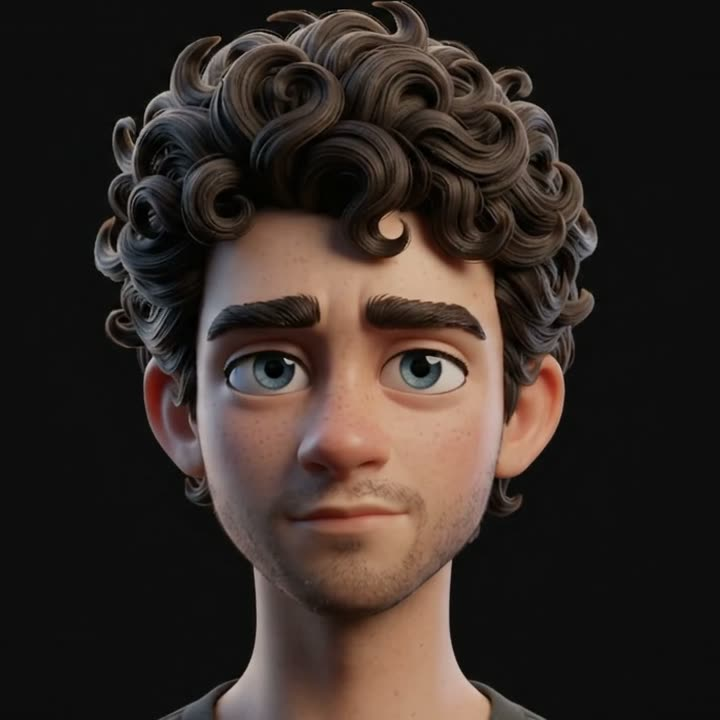
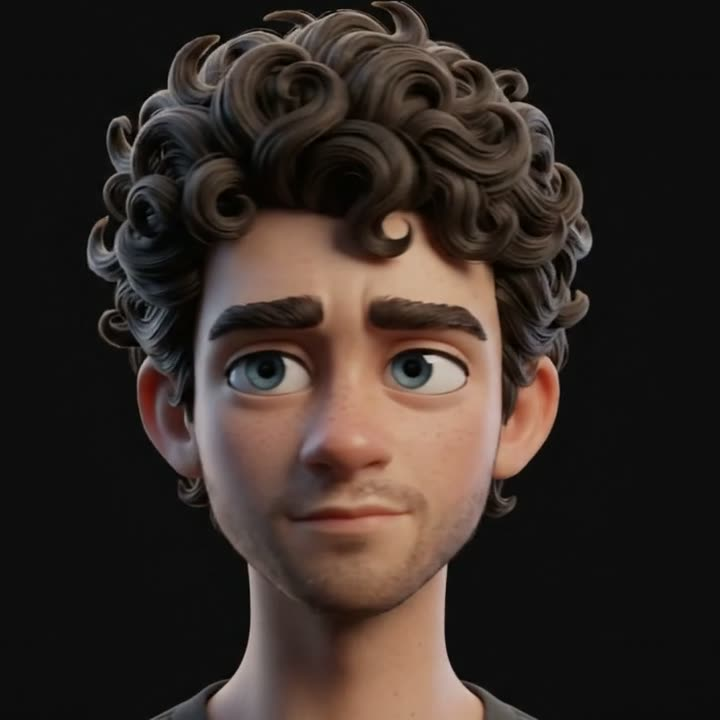
style: remove magnetic motion from Let's build Contact button and update companion gaze frames
- Remove data-sc-magnet effect from Contact me button after Let's build
- Confirm Contact me button is removed after About me
- Update companion gaze frames (000-025) and manifest.json
- Update page.js transition timing and handoff mode gaze tracking

diff --git a/public/page.js b/public/page.js
@@ -131,12 +131,17 @@
       else { setFixed(corner.x, corner.y, corner.s, 1); mode = 'corner'; }
     } else if (y < workAct.top + workAct.height - vh) {
       if (pW < 0.08) { travel(corner, rectOf(figs.deal), pW / 0.08, 1, 0); mode = 'travel'; }
-      else if (pW < 0.92) { setStage('deal'); mode = 'deal'; }
-      else { travel(rectOf(figs.deal), corner, (pW - 0.92) / 0.08, 0, 1); mode = 'travel'; }
+      else { setStage('deal'); mode = 'deal'; }
     } else {
-      if (pC < 0.2) { setFixed(corner.x, corner.y, corner.s, 1); mode = 'corner'; }
-      else if (pC < 0.48) { travel(corner, rectOf(figs.close), (pC - 0.2) / 0.28, 1, 0); mode = 'travel'; }
-      else { setStage('close'); mode = 'close'; }
+      // Straight from where he stands under the deck to his place beside the
+      // ask. No detour through the corner. The deal figure scrolls up with its
+      // stage once the pin releases, so its resting spot is its current rect
+      // shifted back by however far the page has moved since the release.
+      var pinEnd = workAct.top + workAct.height - vh;
+      if (pC < 0.48) {
+        var from = rectOf(figs.deal); from.y += y - pinEnd;
+        travel(from, rectOf(figs.close), pC / 0.48, 0, 0); mode = 'handoff';
+      } else { setStage('close'); mode = 'close'; }
     }
     fixedEl.setAttribute('data-sc-verify-state', mode + '|' + fixedState);
     if (mode === 'hero') heroStage.setAttribute('data-sc-verify-state', 'wake:' + Math.round(modeT * 40));
@@ -205,7 +210,7 @@
   function pickFrame() {
     var smile = frames.wake ? frames.wake[frames.wake.length - 1] : null;
     if (mode === 'hero' && frames.wake) return frames.wake[Math.round(modeT * (frames.wake.length - 1))];
-    if ((mode === 'deal' || mode === 'close') && frames.gaze && fine.matches && hasPointer) {
+    if ((mode === 'deal' || mode === 'handoff' || mode === 'close') && frames.gaze && fine.matches && hasPointer) {
       // The generated sweep runs from the viewer's right to the viewer's left,
       // so the pointer maps onto it mirrored.
       return frames.gaze[Math.round((1 - px) * (frames.gaze.length - 1))];

diff --git a/index.html b/index.html
@@ -556,7 +556,7 @@ Hope</h3>
       <h2 id="close-title" class="display display--poster">Let's build</h2>
       <div class="close__row">
         <div class="close__cta">
-          <a class="btn btn--primary" href="mailto:robin.molinas@outlook.com" data-sc-magnet="0.24">Contact me</a>
+          <a class="btn btn--primary" href="mailto:robin.molinas@outlook.com">Contact me</a>
           <ul class="links">
             <li><a href="mailto:robin.molinas@outlook.com">Email</a></li>
             <li><a href="https://www.linkedin.com/in/robinmolinas/" target="_blank" rel="noopener noreferrer">LinkedIn</a></li>
